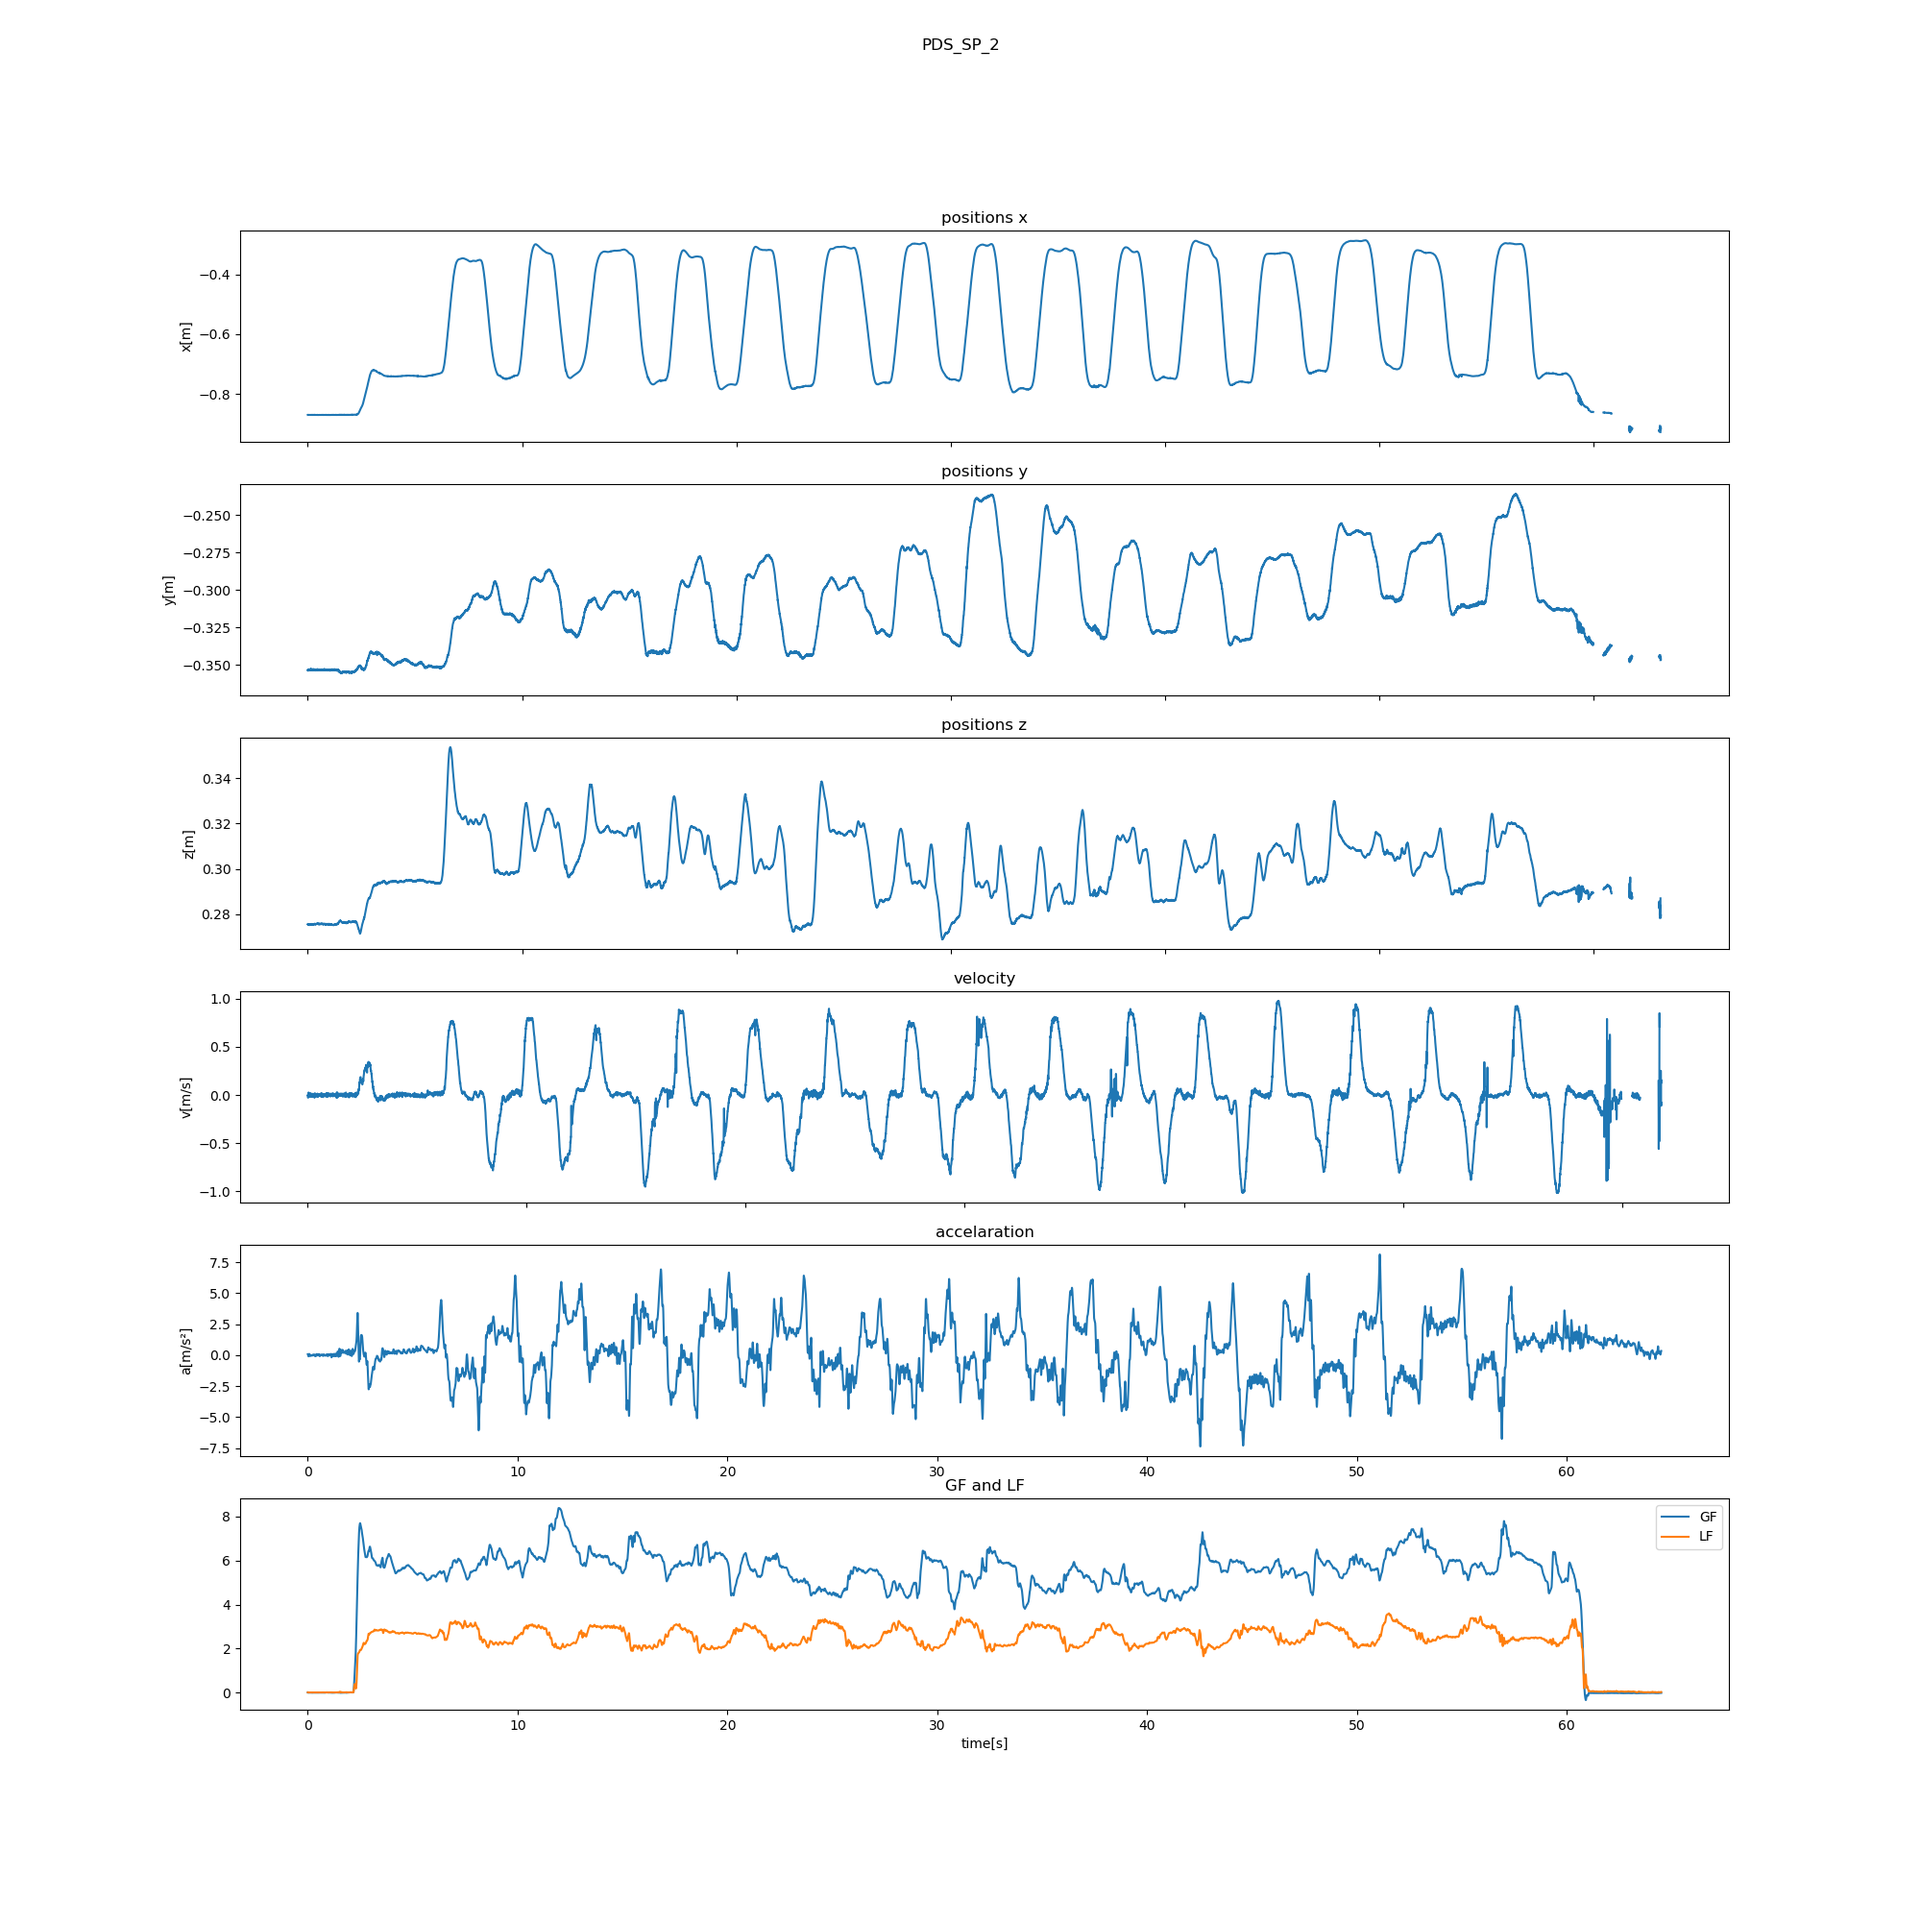
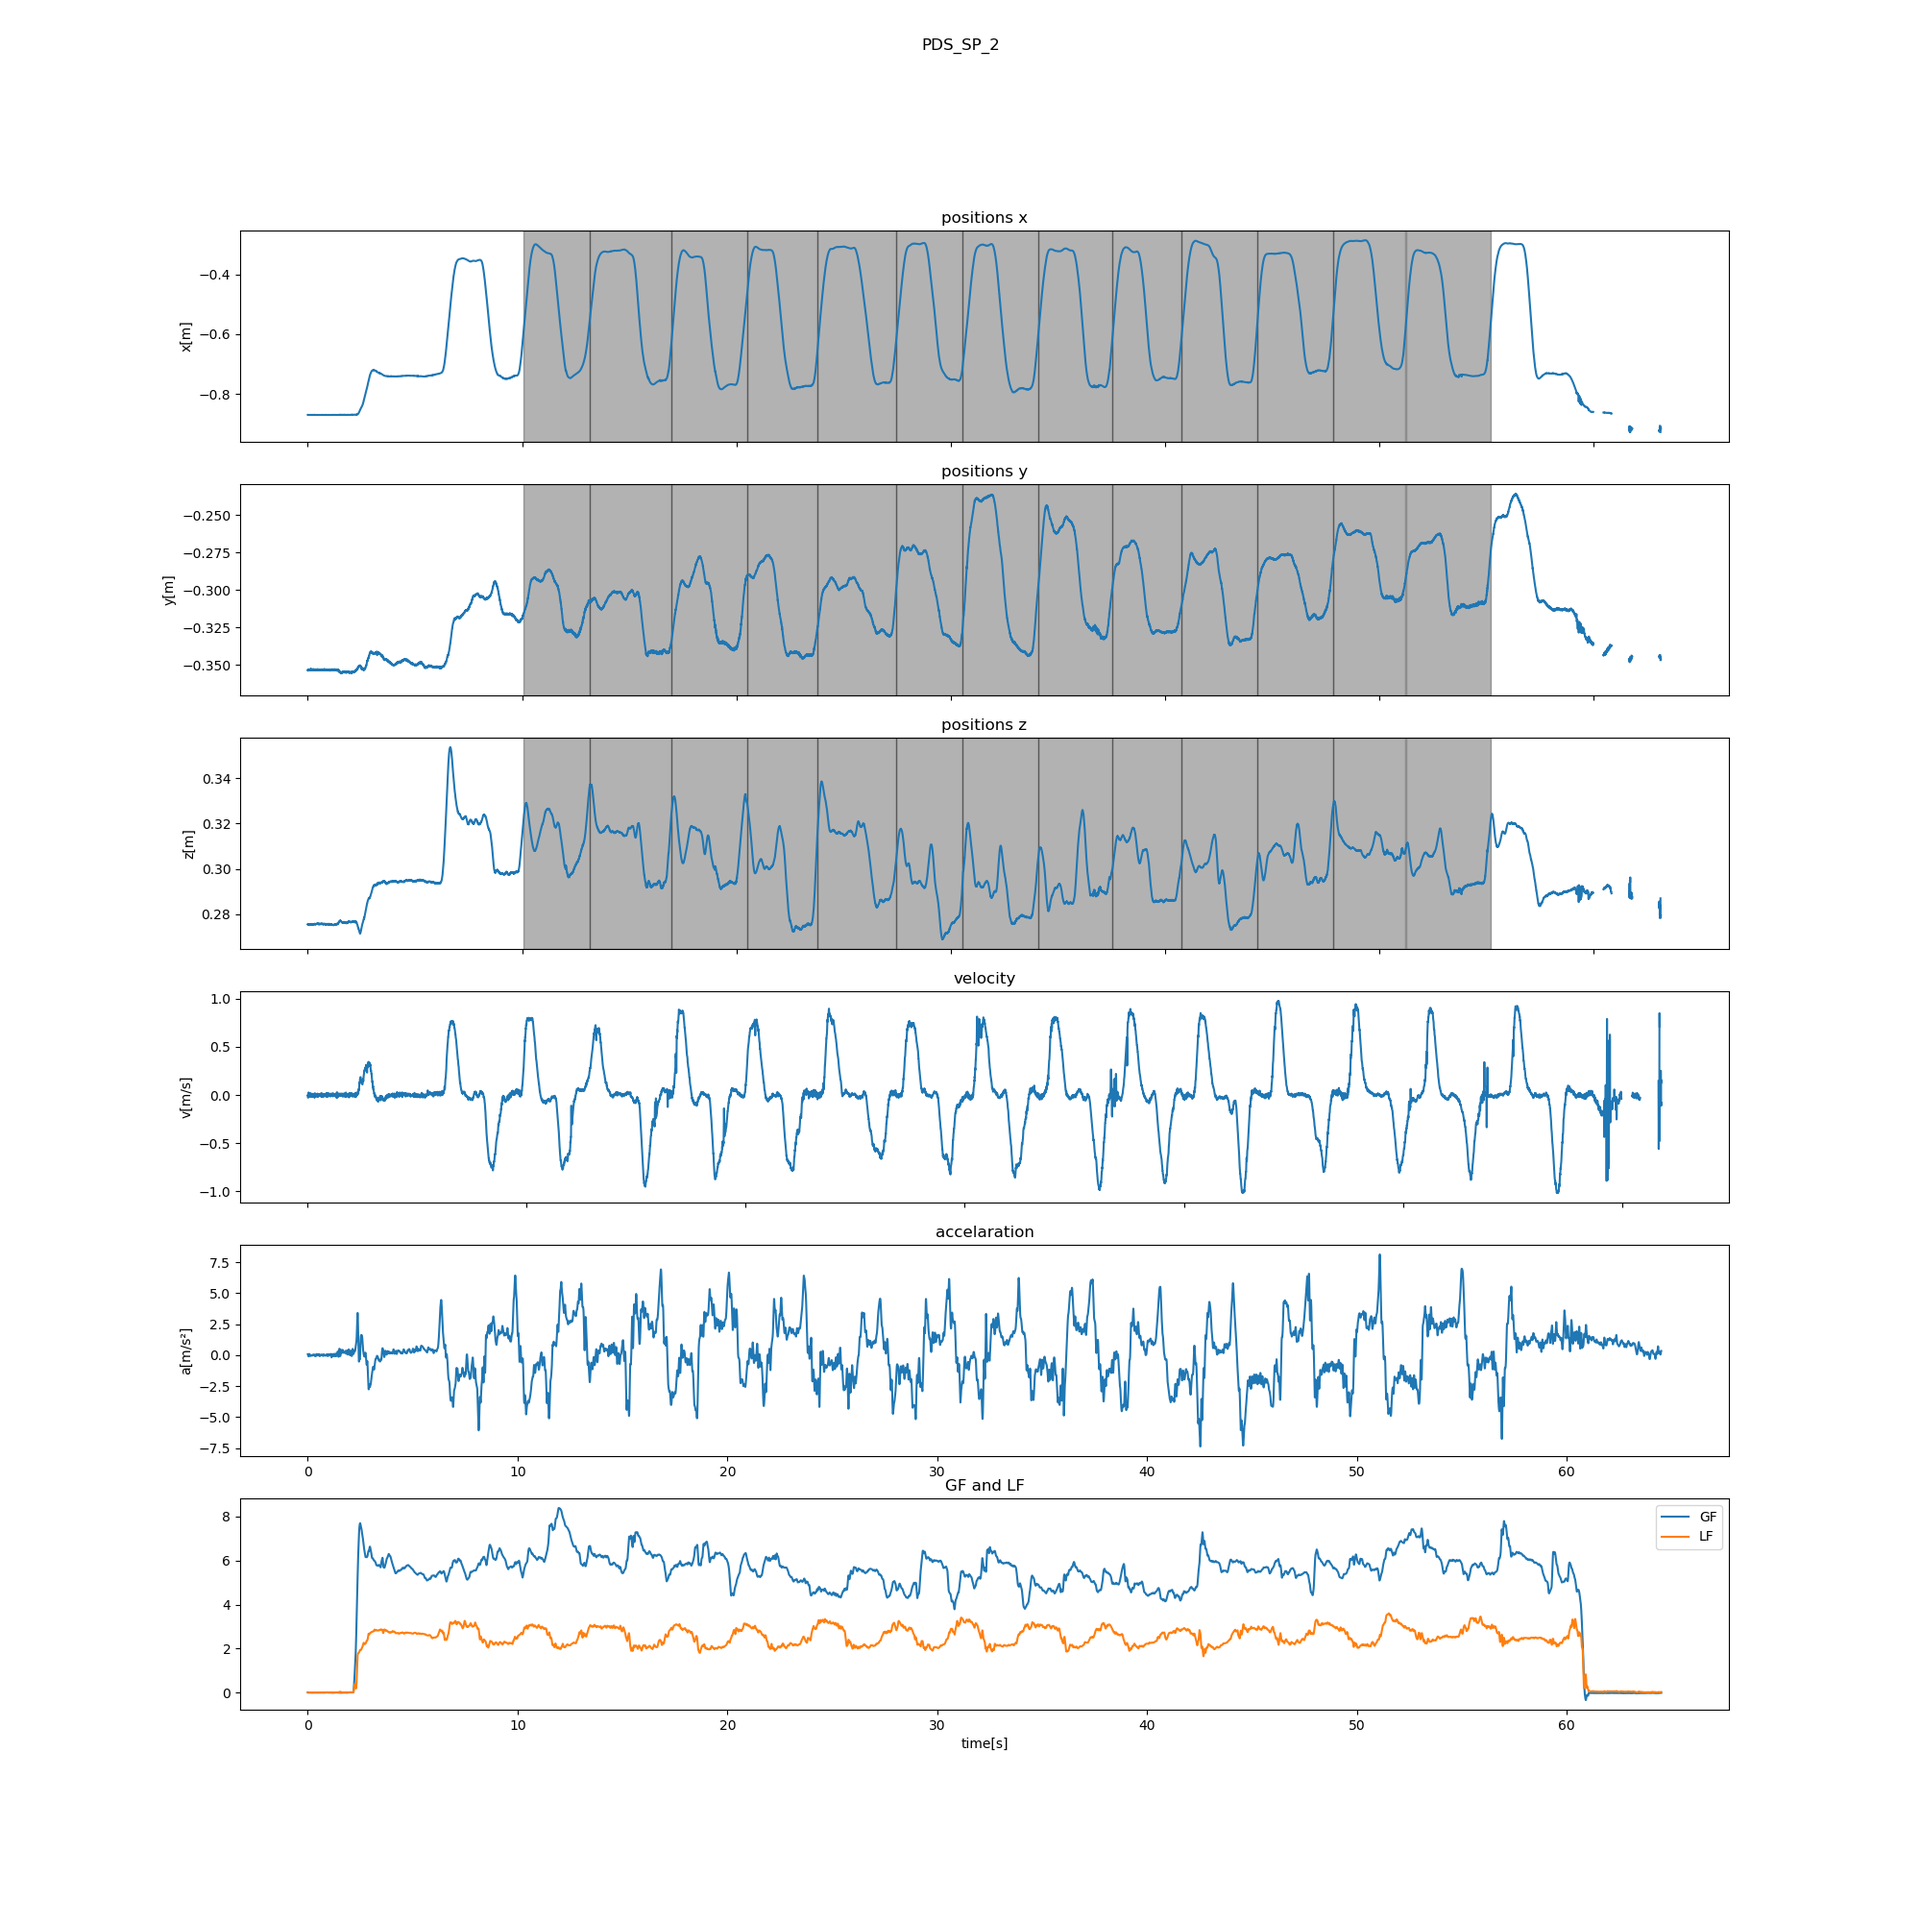
update code

Changed region(s): [[0.248, 0.093, 0.775, 0.496]]

diff --git a/codepython/allgraph/timeforallmvt.py b/codepython/allgraph/timeforallmvt.py
@@ -89,6 +89,10 @@ for name in names:
             ax1.plot(time1, pos[0])
             ax1.set_ylabel("x[m]")
             ax1.set_title('positions x')
+            for i in range(0, len(cycle_starts)):
+                rect0 = plt.Rectangle((time1[cycle_starts[i]], ax1.get_ylim()[0]),
+                                      time1[cycle_ends[i] - cycle_starts[i]], ax1.get_ylim()[1] - ax1.get_ylim()[0], color='k', alpha=0.3)
+                ax1.add_patch(rect0)
             plt.setp(ax1.get_xticklabels(), visible=False)
 
             ax2.plot(time1, pos[1])
@@ -97,10 +101,18 @@ for name in names:
             # ax1.set_ylim(-0.80, -0.20)
             ax2.set_title('positions y')
             ax2.set_ylabel("y[m]")
+            for i in range(0, len(cycle_starts)):
+                rect0 = plt.Rectangle((time1[cycle_starts[i]], ax2.get_ylim()[0]),
+                                      time1[cycle_ends[i] - cycle_starts[i]], ax2.get_ylim()[1] - ax2.get_ylim()[0], color='k', alpha=0.3)
+                ax2.add_patch(rect0)
             plt.setp(ax2.get_xticklabels(), visible=False)
             ax3.plot(time1, pos[2])
             ax3.set_title('positions z')
             ax3.set_ylabel("z[m]")
+            for i in range(0, len(cycle_starts)):
+                rect0 = plt.Rectangle((time1[cycle_starts[i]], ax3.get_ylim()[0]),
+                                      time1[cycle_ends[i] - cycle_starts[i]], ax3.get_ylim()[1] - ax3.get_ylim()[0], color='k', alpha=0.3)
+                ax3.add_patch(rect0)
             plt.setp(ax3.get_xticklabels(), visible=False)
             ax4.plot(time1, vel[0])
             ax4.set_title('velocity')
